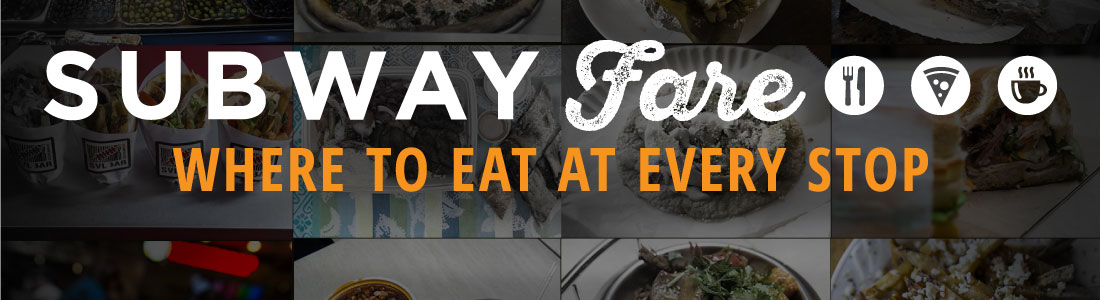
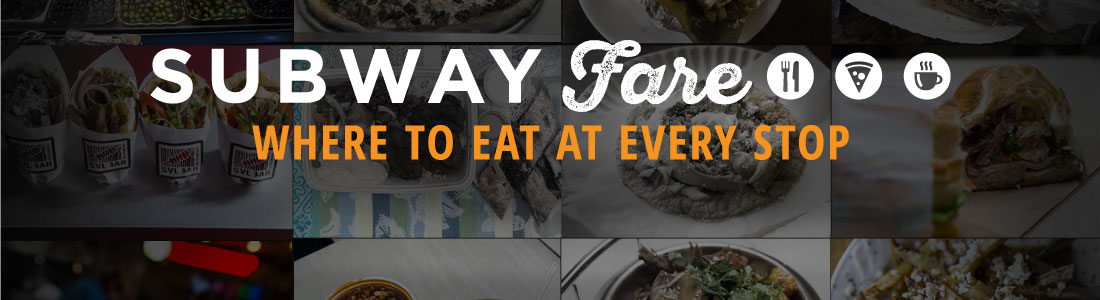
homepage modules tweaked to perfection

Changed region(s): [[0.0309, 0.12, 0.9582, 0.66]]

diff --git a/www/homepage.html b/www/homepage.html
@@ -1,30 +1,24 @@
 <!DOCTYPE html>
 <html>
 <head>
+<meta name="viewport" content="width=device-width">
 
 <style>
-#bg {
-    width: 100%;
-    height: 100%;
-    border-top: 2px solid white;
-    background-color: #000;
-    filter:alpha(opacity=60); /* IE */
-    -moz-opacity:0.6; /* Mozilla */
-    opacity: 0.6; /* CSS3 */
-    position: absolute;
-    top: 0;
-    left: 0;
+
+body {
+    margin: 0;
+}
+
+.hp {
+    background-repeat: no-repeat;
+    background-size: contain;
 }
 
 #legend_box {
-  width: 100%;
-  height: 60px;
-  z-index: 3;
-  box-shadow: 0px 8px 16px 0px rgba(0,0,0,0.2);
-  text-align: center;
-  overflow: hidden;
-  white-space: nowrap;
-  position: relative;
+    width: 100%;
+    height: 60px;
+    text-align: center;
+    position: relative;
 }
 
 .logo_box {
@@ -34,47 +28,72 @@
 }
 
 .legend {
-    width: 60px;
+    width: 65px;
 }
 
-@media only screen and (min-width: 220px) and (max-width:727px) {
-    .hp-sml {
+@media only screen and (min-device-width: 220px) and (max-device-width: 727px) {
+    .hp {
         background-image: url(img/homepage-sml.jpg);
+        background-repeat: no-repeat;
+        background-size: contain;
         width: 100%;
+        height: 360px;
+    }
+
+    #legend_box {
+        height: 0;
+        width: 85%;
+        top: -270px;
+        margin: auto;
     }
 
     .legend {
-        width: 40px;
+        width: 30px;
     }
 }
 
-@media only screen and (min-width: 728px) and (max-width: 989px) {
-    .hp-sml {
-        background-image: url(img/homepage-med.jpg);
+@media only screen and (min-width: 728px) and (max-device-width: 989px) {
+    .hp {
+        background-image: url('img/homepage-med.jpg');
         width: 100%;
+        height: 360px;
+    }
+
+    #legend_box {
+        width: 275px;
+        padding-right: 15px;
+        float: right;
+        top: -308px;
+    }
+
+    .logo_box {
+        display: block;
+        float: left;
     }
 
     .legend {
-        width: 40px;
+        width: 50px;
     }
 }
 
-@media only screen and (min-width: 990px) and (max-width: 1100px) {
-    .hp-sml {
-        background-image: url(img/homepage-lg.jpg);
-        width: 100%;
+@media only screen and (min-width: 990px) {
+    .hp {
+        background-image: url('img/homepage-lg.jpg');
+        background-position-x: center;
+        height: 300px;
+    }
+
+    #legend_box {
+        top: -100px;
     }
 }
 </style>
 </head>
 <body>
     <div>
-        <div class="hp-sml">test</div>
-        <div class="hp-med"></div>
-        <div class="hp-lrg"></div>
+        <div class="hp"></div>
     </div>
 
-    <div id="bg"></div>
     <div id="legend_box">
     <div class="logo_box" id="line2">
     <a href="?2" onclick="return false;">
